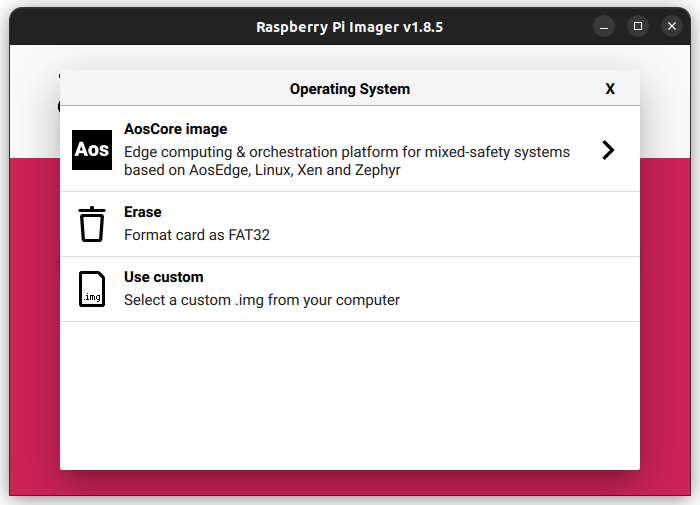
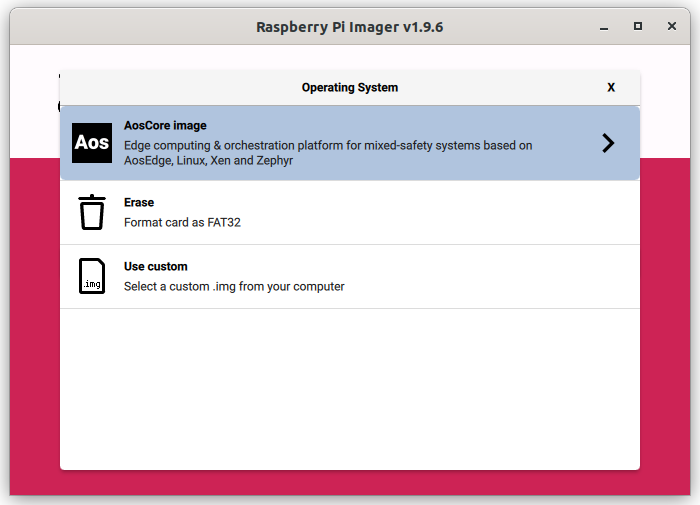
doc: readme: update install instruction for the single node image
This patch updates the installation instructions to describe
steps for the single node image. Also, screenshots are updated:
- RPI imager v1.9.6 is used;
- screenshots contains the recent build images changes:
single, main, secondary node images.

Changed region(s): [[0.06, 0.1485, 0.96, 0.9802], [0.0, 0.0, 0.99, 0.0891], [0.87, 0.1485, 0.9, 0.1782]]

diff --git a/README.md b/README.md
@@ -125,7 +125,8 @@ If you do not have those please consider getting a [docking station](https://eu.
       ![Step 1](doc/pictures/install_step_1.png)
    - select **AosCore image**:  
       ![Step 2](doc/pictures/install_step_2.png)
-   - depend on your setup, select image either for NVMe drive **AosCore for NVMe drive** or **AosCore for USB drive**:  
+   - depend on your setup, select single node image either for NVMe drive **AosCore single node for NVMe drive**
+    or for USB drive **AosCore single node for USB drive**:
       ![Step 3](doc/pictures/install_step_3.png)
 
 5. Select storage:
@@ -225,13 +226,16 @@ If you do not have those please consider getting a [docking station](https://eu.
      be logged in `DomD`:
 
       ```console
-      (XEN) root@main:~#
+      (XEN) main login: pi
+      (XEN) Password:
+
+      (XEN) main:~$
       ```
 
    - Input `ip r` command to get your device IP address (see `default`):
 
       ```console
-      (XEN) root@main:~# ip r
+      (XEN) main:~# ip r
       (XEN) default via 192.168.50.1 dev eth0  src 192.168.50.6  metric 1024
       (XEN) 10.0.0.0/24 dev eth0 scope link  src 10.0.0.100
       (XEN) 172.17.0.0/16 dev br-sp9a53b711 scope link  src 172.17.0.2
